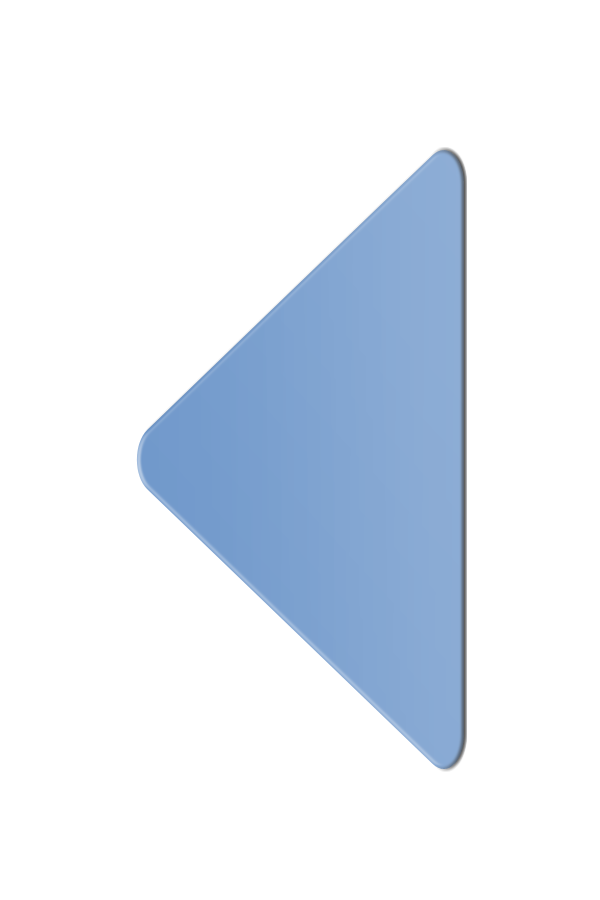
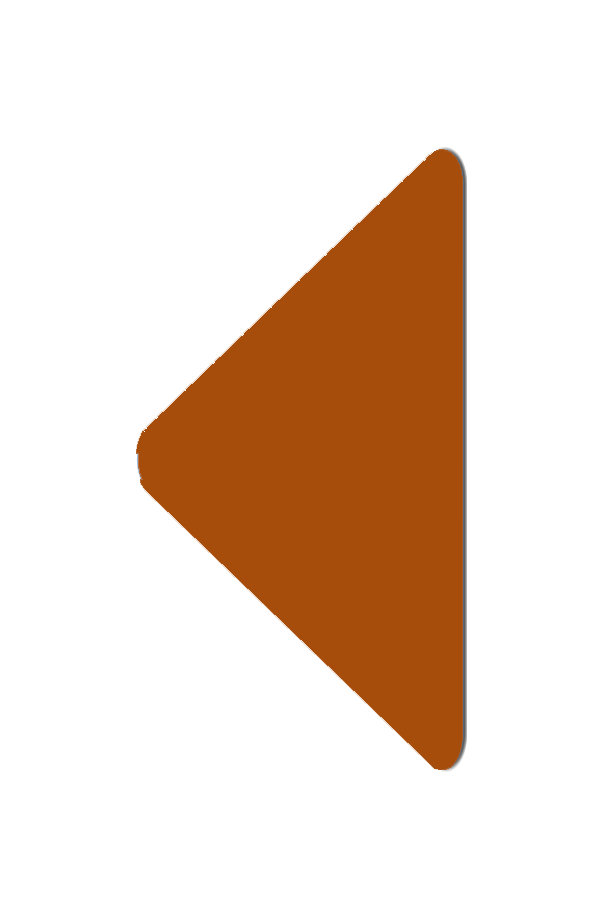
Toolbox färgfixxx

Changed region(s): [[0.21, 0.1556, 0.78, 0.8711]]

diff --git a/public/stylesheets/toolbox.css b/public/stylesheets/toolbox.css
@@ -37,7 +37,7 @@
 }
 #toolbox_area_1 {
     float:left;
-    background-color: #679FD2;
+    background-color: #F8C996;
     height:100%;
     width:200px;
     display: none; 
@@ -75,3 +75,15 @@
 #toolbox_text_2 {
     background-color:white;
 }
+#title2 {
+width:180px;
+height:30px;
+margin-left:10px;
+margin-top:10px;
+
+}
+
+.toolbox_button_delete{
+font:15px Segoe UI;
+}
+
